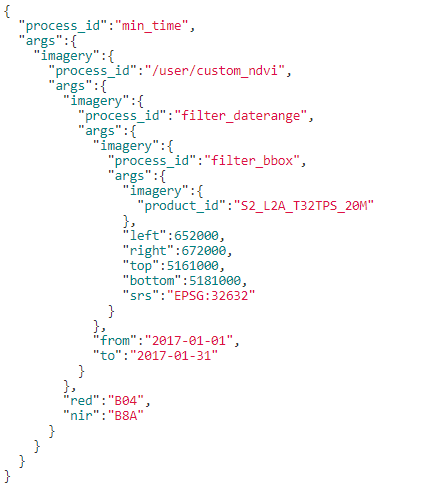
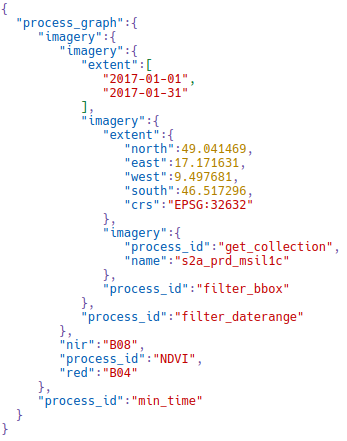
implementation chapter

diff --git a/latex/example.tex b/latex/example.tex
@@ -366,10 +366,26 @@ In Figure \ref{fig:vframework} there is an overview of the VFramework concept.
 	\label{fig:vframework} % \label has to be placed AFTER \caption (or \subcaption) to produce correct cross-references.
 \end{figure}
 
-\todo{bis hier fertig (fürs Erste)}
+
 \section{Earth Observation Science}\label{EOScience}
 
-Reproducibility is a well discussed topic of the computational geoscience. The high amount of earth observation data leads to complex research experiments and therefore high complexity in the papers.  According to \cite{Ostermann2017AdvancingSW} where the reproducibility and replicability of scientific papers in geoscience are tested by obtaining more than 400 papers. In \cite{Ostermann2017AdvancingSW} a reproduction is defined by an exact duplicate of an experiment, whereas a replication is defined as a resemblance of the original execution, but allowing variation e.g. different scales.Only half of the test group publications are replicable and none of them reproducible. There are publications to address this lack of reproducibility in the earth observation science. The sections below summarize some examples of earth observation communities that are working on the topic of reproducibility. 
+Reproducibility is a well discussed topic of the computational geoscience. The high amount of earth observation data leads to complex research experiments and therefore high complexity in the papers.  In \cite{Ostermann2017AdvancingSW} reproducibility and replicability of scientific papers in geoscience are tested by obtaining more than 400 papers. In \cite{Ostermann2017AdvancingSW} a reproduction is defined by an exact duplicate of an experiment, whereas a replication is defined as a resemblance of the original execution, but allowing variation e.g. different scales. Table \ref{Tab:geoprimad} describes the difference of reproduction and replicability in PRIMAD terms. Only half of the test group publications are replicable and none of them reproducible. There are publications to address this lack of reproducibility in the earth observation science. The sections below summarize some examples of earth observation communities that are working on the topic of reproducibility.   
+
+\begin{table}[]
+	\caption{PRIMAD description of reproduction and replication according to \cite{Ostermann2017AdvancingSW}}
+	\begin{tabular}{l|l|l}
+		 & \textbf{Reproduction} & \textbf{Replication}  \\ \hline
+		\textbf{P}latform & same & different \\ \hline 
+		\textbf{R}esearch Objectives & same & same \\ \hline  
+		\textbf{I}mplementation  & same & different  \\ \hline  
+		\textbf{M}ethods & same & different \\ \hline 
+		\textbf{A}ctors & different & different \\ \hline
+		\textbf{D}ata & same & different, but similiar \\ \hline
+	\end{tabular}
+	\label{Tab:geoprimad}
+\end{table}
+
+
 
 \subsection{Vadose Zone Journal (VZJ)}\label{VZJ}
 In order to face the issue of lacking reproducibility in geoscience the Vadose Zone Journal (VZJ) started a Reproducibility Research (RR) program in 2015 \cite{doi:10.2136/vzj2015.06.0088}. 
@@ -393,7 +409,7 @@ The geoscience paper of the future (GPF) is according to \cite{Gil2016TowardTG} 
 \end{figure}
 
 In Figure \ref{fig:gpf} the differences with a reproducible paper gets visualized. In addition to the characteristics of the reproducible paper the GPF focuses on publishing the data publicly with open licenses with citable persistent identifiers.
-The GPF consists of a set of 20 recommendations for geoscientists regarding data accessibility, software accessibility and provenance information. GPF authors may find reasons to not be able to follow the rules and therefore have to find workarounds and propose areas for future improvements. The strategy of the GPF community is to educate the scientist to make reproducible publications, by making training sessions for them \footnote{\footnote{http://scientificpaperofthefuture.org/gpf/events.html}}, rather then providing tools to make it easier for scientists to use it. In comparison to this thesis it is a different approach to achieve the same goal, in this thesis the strategy is to achieve reproducibility in geoscience through technology. 
+The GPF consists of a set of 20 recommendations for geoscientists regarding data accessibility, software accessibility and provenance information. GPF authors may find reasons to not be able to follow the rules and therefore have to find workarounds and propose areas for future improvements. The strategy of the GPF community is to educate the scientist to make reproducible publications, by making training sessions for them\footnote{http://scientificpaperofthefuture.org/gpf/events.html}, rather then providing tools to make it easier for scientists to use it. In comparison to this thesis it is a different approach to achieve the same goal, in this thesis the strategy is to achieve reproducibility in geoscience through technology. 
 
 \subsection{Climate Change Centre Austria (CCCA)}
 
@@ -540,7 +556,7 @@ The main part of the job execution definition is based on the description of wha
 	\label{fig:process_graph} % \label has to be placed AFTER \caption (or \subcaption) to produce correct cross-references.
 \end{figure}
 
-The back ends interpret the process graph from inside out. Figure \ref{fig:process_graph} displays the process graph of the running example of Section \ref{example}. It describes the calculation of the minimum NDVI image of the Sentinel 2 satellite over south tyrol in May 2017. The element in the center of the process graph defines the input data identifier in the "imagery" block, with the "product\_id". In this case the "s2a\_prd\_msil1c" is chosen  as input data identifier, because it is the identifier for Sentinel 2 at the EODC back end. After reading the input data id, the back end iterates one step up in the hierarchy of the process graph and calls the process "filter\_bbox" with the parameters "left", "right" and so on, which is responsible of filtering the image spatial (e.g. the area over south tyrol). After that the "filter\_daterange" process is used to only take imageries from May 2017. Every process beginning with "filter\_" is a filter operation that specifies the selection of the input data. The output data of the previous process is the input data of the next process. After the last filtering process, the NDVI gets called by "/user/custom\_ndvi" with the parameters "red" and "nir", which take the identifier of the bands of near infrared and red light, which is needed by the NDVI process (see Section \ref{example}). After that the minimum value is taken from all images using the "min\_time" process, which then results in a single image. In Figure \ref{fig:process_graph_diagram} the same process graph is visualized from the back end point of view, visualizing the order of how it gets executed. To transfer the process graph in Figure \ref{fig:process_graph} at a back end, it gets sent in the body of the POST /jobs endpoint request.
+The back ends interpret the process graph from inside out. Figure \ref{fig:process_graph} displays the process graph of the running example of Section \ref{example}. It describes the calculation of the minimum NDVI image of the Sentinel 2 satellite over south tyrol in May 2017. The element in the center of the process graph defines the input data identifier in the "imagery" block, with the "get\_collection" process id. In this case the "s2a\_prd\_msil1c" is chosen as input data identifier, because it is the identifier for Sentinel 2 at the EODC back end. After reading the input data id, the back end iterates one step up in the hierarchy of the process graph and calls the process "filter\_bbox" with the parameters "left", "right" and so on, which is responsible of filtering the image spatial (e.g. the area over south tyrol). After that the "filter\_daterange" process is used to only take imageries from May 2017. Every process beginning with "filter\_" is a filter operation that specifies the selection of the input data. The output data of the previous process is the input data of the next process. After the last filtering process, the NDVI gets called by "/user/custom\_ndvi" with the parameters "red" and "nir", which take the identifier of the bands of near infrared and red light, which is needed by the NDVI process (see Section \ref{example}). After that the minimum value is taken from all images using the "min\_time" process, which then results in a single image. In Figure \ref{fig:process_graph_diagram} the same process graph is visualized from the back end point of view, visualizing the order of how it gets executed. To transfer the process graph in Figure \ref{fig:process_graph} at a back end, it gets sent in the body of the POST /jobs endpoint request.
 
 \begin{figure}[h]
 	\centering
@@ -574,8 +590,8 @@ Even though the back ends implement the OpenEO core API standard, they are still
 
 \subsection{EODC Back End}\label{EODC Back End}
 
-The EODC back end is one of the contributing back end providers of the OpenEO project. It is in general a python implemented back end that uses virtualisation technologies for the job execution. The overlaying technology is OpenShift (using Kubernetes) \footnote{https://www.openshift.com/learn/what-is-openshift/}, which is capable of scaling docker containers and handles the execution of them. In the docker containers the python code for the processing gets executed. The docker description files and the python code is available on GitHub\footnote{https://github.com/Open-EO/openeo-openshift-driver/tree/release-0.0.2}. In this thesis the latest version of the EODC back end provided in GitHub with the version 0.0.2 is used. In this version every process of the OpenEO process graph is represented by an own docker container running the python code needed. The service layer for accessing the back end is accomplished by the python library Flask. EODC provides only data from Sentinel 2 and Sentinel 1 within the OpenEO project. The provided data are satellite images from the European Space Agency (ESA), which gets the raw data coming directly from the Sentinel satellites. \\
-The data management of EODC is file-based, so every image data is stored in a unique directory and filename combination. Meta-data is provided via PostgreSQL database including the PostGIS\footnote{https://postgis.net} plug-in. The provided query tool for EODC users is the Open Geospatial Consortium (OGC) standard interface Catalogue Service for the Web (CSW\footnote{http://cite.opengeospatial.org/pub/cite/files/edu/cat/text/main.html}). In Figure \ref{fig:eodceer} an overview of the EODC meta-database is displayed. The structure is retrieved from the github repository of the EODC back end\footnote{https://github.com/Open-EO/openeo-openshift-driver/tree/release-0.0.2}, where every database entity is defined. Every Process entity can have parameters described by the Parameter entity. The ProcessNode is representing one node in a process graph and is therefore related to exactly one ProcessGraph entity. Every Job has a related process graph, there may be jobs that use the same process graph, but in the current set up they are persisted both in the database.
+The EODC back end is one of the contributing back end providers of the OpenEO project. It is in general a python implemented back end that uses virtualisation technologies for the job execution. The overlaying technology is OpenShift (using Kubernetes) \footnote{https://www.openshift.com/learn/what-is-openshift/}, which is capable of scaling docker containers and handles the execution of them. In the docker containers the python code for the processing gets executed. The docker description files and the python code is available on GitHub. In this thesis the latest version of the EODC back end provided in GitHub with the version 0.0.2 is used. In this version every process of the OpenEO process graph is represented by an own docker container running the python code needed. The service layer for accessing the back end is accomplished by the python library Flask. EODC provides only data from Sentinel 2 and Sentinel 1 within the OpenEO project. The provided data are satellite images from the European Space Agency (ESA), which gets the raw data coming directly from the Sentinel satellites. \\
+The data management of EODC is file-based, so every image data is stored in a unique directory and filename combination. Meta-data is provided via PostgreSQL database including the PostGIS\footnote{https://postgis.net} plug-in. The provided query tool for EODC users is the Open Geospatial Consortium (OGC) standard interface Catalogue Service for the Web (CSW\footnote{http://cite.opengeospatial.org/pub/cite/files/edu/cat/text/main.html}). In Figure \ref{fig:eodceer} an overview of the EODC meta-database is displayed. The structure is retrieved from the github repository of the EODC back end\footnote{https://github.com/Open-EO/openeo-openshift-driver}, where every database entity is defined. Every Process entity can have parameters described by the Parameter entity. The ProcessNode is representing one node in a process graph and is therefore related to exactly one ProcessGraph entity. Every Job has a related process graph, there may be jobs that use the same process graph, but in the current set up they are persisted both in the database.
 
 \begin{figure}[h]
 	\centering
@@ -583,9 +599,6 @@ The data management of EODC is file-based, so every image data is stored in a un
 	\caption{Overview of the EODC meta-database structure.}
 	\label{fig:eodceer} % \label has to be placed AFTER \caption (or \subcaption) to produce correct cross-references.
 \end{figure}
-
-%Data management on the EODC back end is file system based. All earth observation data that can be retrieved and used on the back end is stored as a zip archive file on EODCs file system. EODC only provides Sentinel 2 and Sentinel 1 data, directly retrieved from the ESA, for the OpenEO project. Additionally to the file system directory a PostgreSQL database with the PostGIS extension is used to save the meta data of the files. To query the data sets a OGC standard named CSW is used as an interface. CSW uses XML based queries to e.g. filter the data. The data from ESA gets rarely updated, but if it gets updated a new filename gets created. EODC automatically syncs the data from ESA and gets also the new versions of the data records. So the version of the data is described by the filename and file path. In the PostgreSQL database there are the timestamps of changes on the files stored. Queries are not stored by the EODC back end and there are no data identifiers on query results generated. For the user executing jobs at EODC via the OpenEO back end driver there is no possibility to identify the input data.            
-%\todo{Maybe move to eodc section at the methods.}
 
 \section{Summary}
 
@@ -694,7 +707,7 @@ The version of the back end provenance during the job execution. Since for every
 The output data of the processing has to be captured as well to be able to compare job execution outcomes. In earth observation tasks the results can be rather big, that is why a simple generated hash value of the output result is enough. The output data does not have to be identifiable within the scope of this thesis, but just checkable of identity with other executions. Therefore, a generated hash value of the output data is sufficient. The aim of the output data capturing is not to add the possibility to find differences between results, but to be able to see that the results are different. Even though the input data of typical earth observation experiments are big, the output of such experiments are images of various sizes.   
 
 \textbf{J6: Result Hash} \\
-The output result of the job need to be verifiable and therefore need to be persisted. An easy way to achieve this is to take the hash value over the sorted output files.
+The output result of the job need to be verifiable and therefore need to be persisted. An easy way to achieve this is to take the hash value over the output files sorted by the alphabetical ascending filenames.
  
 \section{Context Model}\label{Design:Context Model}
 
@@ -706,7 +719,7 @@ Second the job execution context model that includes all information that is ded
 %\textbf{J2: Process Code Identifier}
 %The executed  code for the process has to be identifiable, therefore there has to be an id of the code. The OpenEO project is an OpenSource project and the back end provider have the used code at the Github repository, so the link to the github repository with the currently checked out commit can be used as the identifier. 
 
-\section{User Interface}\label{Design:User Interface}
+\section{User Services}\label{Design:User Interface}
 
 In this section the information for the users and how it is provided gets described. The capturing described in the previous sections consists of information about the back ends that shall not be completely passed to the users in detail. For example, it is maybe a security risk to provide information on specific programming language packages. On the other hand the users need to be able to see the differences of job executions and get environment information about the back ends. Therefore, there has to be a filter on which data can not be shown to the users. Every captured information is not necessarily interesting for the users. Data that is not secure to the user has to be defined by the different back ends themselves. The earth observation community has a very diverse set of back ends and every one has a unique company security guideline.\\ 
 Provenance information need be provided to the user. Therefore, there have to be additions to the core API specification. Additional endpoints for the users to get information about the back end have to be created for the core API, back end and client. The following recommendations summarize the set of needed additions, they are structured with a "U" in the beginning to add readability through the thesis. Other than the "J" and the "B" data elements, the following points are implementation recommendations for back end provider to make the use of the context model accessible for the users.
@@ -715,7 +728,7 @@ Provenance information need be provided to the user. Therefore, there have to be
 There has to be an endpoint for users to retrieve back end specific information especially the current version. The aim of it is to present the users with information about the current state of the back end and to help users to decide, which back end they want to use. 
 
 \textbf{U2: Detailed Job Information} \\
-The back end has to provide an endpoint to retrieve information about an already executed job. The provenance of the job has to be presented in there. At least the resolvable persisted identifier of the input data, the back end version and the result set hash has to be added to the view. In addition to this the whole meta-data of the context model can be mad accessible. To make it more transparent for users the resolvable identifier URL of the input data and the GitHub information can be provided.   
+The back end has to provide an endpoint to retrieve information about an already executed job. The provenance of the job has to be presented in there. At least the resolvable persisted identifier of the input data, the back end version and the result set hash has to be added to the view. In addition to this the whole meta-data of the context model can be made accessible. To make it more transparent for users the resolvable identifier URL of the input data and the GitHub information can be provided.   
 
 \textbf{U3: Comparing Two Jobs} \\
 The API has to add an end point for providing a comparison of two different jobs.  Every item of both of the context models of both jobs have to be compared if they are equal or not. Therefore, the response of the comparison request consists of the differences in the context model between two jobs.
@@ -727,7 +740,7 @@ After the job is executed the input data has a relating input data PID. The PID 
  The back end has to provide an endpoint to the user to re-use a specific input data in another job. Therefore, the API allows to include the use of an input data PID in the process graph, so that users can include cited data directly in a new created job description.  
 
 \section{User Defined Functions}\label{Design:User Defined Functions}
-This section describes a possible capturing method of User Defined Functions (UDF). UDFs are customized code written by the user that gets executed in a virtualization environment at the back end provider. In theory the user defines a docker base image and the code that should run in it. This is a black box for the back end provider, since they can not now what processes run in the docker container. Therefore, the capturing concept needs to be different then the common way of executing jobs at the back end. The code and the docker base image has to be persisted by the back end provider. In addition the timestamp of the execution, to be able to able to identify the back end version at the execution. This is a rather new concept in earth observation science and not implemented in the EODC back end, hence the implementation of the capturing is not in this thesis.
+This section describes a possible capturing method of User Defined Functions (UDF). UDFs are customized code written by the user that gets executed in a virtualization environment at the back end provider. In theory the user defines a docker base image and the code that should run in it. This is a black box for the back end provider, since they can not now what processes run in the docker container. Therefore, the capturing concept needs to be different then the common way of executing jobs at the back end. The code and the docker base image has to be persisted by the back end provider. In addition the timestamp of the execution, to be able to identify the back end version at the execution. This is a rather new concept in earth observation science and not implemented in the EODC back end, hence the implementation of the capturing is not part of this thesis.
 
 
 \section{Summary}
@@ -791,7 +804,8 @@ The Query Table stores the data related to the query instance, additional result
 	\includegraphics[width=\textwidth]{dataid_example_processgraph}
 	\caption{Example Input process graph of the Query Handler component.}
 	\label{fig:processgraph_example} % \label has to be placed AFTER \caption (or \subcaption) to produce correct cross-references.
-\end{figure} %\todo{adapt original Query}
+\end{figure} 
+\todo{adapt original Query}
 
 \begin{table}[]
 	\caption{Structure of the Query Table in the EODC meta database.}
@@ -826,10 +840,10 @@ The following list describes how the elements of the query data set record are c
 	Newline and space characters are removed from the unique query string. The unique query hash is the output of the SHA-256 hash function (using the python module "hashlib") with the unique query as input.  \\
 	\textit{Example: "AE7EF888CDEDF8A9A371\dots"} 
 	\item \textbf{Result Hash} \\
-	The result hash is the output of the SHA-256 hash function (using the python module "hashlib") with the result file list as input. Before the list is applied to the hash function it is transformed to a string and then gets the newline and white space characters removed from it. \\
+	The result hash is the output of the SHA-256 hash function (using the python module "hashlib") with the result file list as input. Before the list is applied to the hash function it is transformed to a string and the newline and white space characters are removed. \\
 	\textit{Example: "565D229FCE4772869343\dots"} 
 	\item \textbf{Execution Time-stamp} \\
-	The execution time stamp is the input parameter of the Query Handler and is transformed to the data type needed by the data base. The time-stamp is taken by the query execution handler and is part of the query execution result. To forward it to the Query Handler it had to be read from the result object. \\
+	The execution time stamp is the input parameter of the Query Handler and is transformed to the data type needed by the data base. The time-stamp is taken by the query execution handler and is part of the query execution result. To forward it to the Query Handler it has to be read from the result object. \\
 	\textit{Example: "2018-10-17 18:03:20,609"}  
 	\item \textbf{Additional Meta-data} \\
 	The additional meta-data column of the Query table can be used by the EODC back end to store additional information about the query execution. In the implementation of this thesis, only the number of output files are persisted in the database. The column is defined as a JSON object and can be extended with additional meta-data easily. \\
@@ -860,6 +874,7 @@ Since EODC takes the code for the services directly from GitHub, the Git commit 
 
 \textbf{B4: Publication Time-stamp} \\
 The publication time-stamp of the EODC back end is defined by the time-stamp when the Git commit happened. It is persisted by GitHub and can be retrieved via the Git CLI. 
+\todo{Maybe add the code example}
 
 \section{Job dependent provenance}\label{Implementation:Job dependent provenance}
 The EODC back end of the release version "0.0.2" transforms the process graph into separate docker containers. For every process in the process graph there is a docker container running the related python code. The input of the current process is the output of the previous process. The first process docker container has the input data defined in the process graph as input value, which is the result of the query execution. Every process saves the results in a temporary folder dedicated to the specific process execution. Every process has its own temporary output directory until the whole process chain is finished. After that the back end deletes the temporary folders and only the end result is persisted in the job directory.
@@ -872,16 +887,16 @@ Each executed job creates a context model. If the job gets re-executed, the cont
 The context model is stored as a JSON object in the job execution meta-database. After the job is carried out in the EODC back end the results are saved in a folder named after the unique job identifier and the meta data information is stored in a PostGreSQL database (see Section \ref{EODC Back End}). Jobs are saved in the Job table of the database and in this solution the context model is an additional column of it. The context model JSON object gets created by the implementations described below. \\
 Table \ref{Tab:contextmodel} provides the mapping between the context model elements from Section \ref{Design} and the keys of the JSON context model object of the prototype. The elements have a one to one mapping of the context model and the JSON key except for the timestamps of the execution. The execution time stamps are part of the Job table in the EODC meta-database. \\
 Figure \ref{fig:job_context_model} shows an example context model. It consists of all elements described for the context model in the Design section. Information on the back end environment during the execution of the job is persisted in the context model. In the context model the back end version and the execution time-stamp is persisted and can be used to identify the back end provenance of the execution time. The code environment is a list of all python dependencies with their versions installed during the execution of the jobs. In addition the python interpreter version is added to the JSON object. How the data is captured in detail is described in the sections below.    
- 
-%\todo{Make Glossary ?}
-%\todo{Add listing captions ?}
+\todo{bis hier fertig (fürs Erste)}
+\todo{Make Glossary !}
+\todo{Add listing captions !}
  
 \begin{table}[]
 	\caption{Relation of context model elements and EODC JSON context model.}
 	\begin{tabular}{l|l}
 		\textbf{Context Model Definition} & \textbf{JSON Key} \\ \hline
-		\textbf{J1: Input Data Persisted Identifier} & input\_data \\ \hline
-		\textbf{J2: Back end provenance / Code Identifier} & backend\_env \\ \hline
+		\textbf{J1: Input Data Persistent Identifier} & input\_data \\ \hline
+		\textbf{J2: Back End provenance / Code Identifier} & backend\_env \\ \hline
 		\textbf{J3: Programming Language} & interpreter \\ \hline
 		\textbf{J4: Installed packages of the programming language} & code\_env \\ \hline
 		\textbf{J5: Start and End time of process execution} & start\_time, end\_time \\ \hline
@@ -921,7 +936,7 @@ Figure \ref{fig:impljobcapture} visualizes the additional python module \textit{
 	\item \textbf{Job Capturing} \\
 	The \textit{Job Capturing} module parses the logging file to extract the information needed for the context model (J1, J3, J4 and J5) and passes the formatted information to the \textit{Context Model Creator}. The \textit{Context Model Creator} needs the \textit{Result Handler} (J6) and \textit{BackEndMonit} (J2) for the remaining parts of the context model. After receiving all necessary information the JSON context model is created and stored to the Job table in the EODC meta-database.    
 \end{enumerate}
-
+\todo{there is a BackEndMonit ....}
 The following sections describe the capturing of each data element of the job dependent context model in more detail.
 
 \textbf{J1:  Source Input Data Identifier} \\
@@ -978,7 +993,7 @@ The core API does not define the comparison of two jobs, hence there does not ex
 	\caption{JSON Example of a job comparison result.}
 	\label{fig:job_comparison} % \label has to be placed AFTER \caption (or \subcaption) to produce correct cross-references.
 \end{figure}
-%\todo{show process graph differences in the program and edit the image here}
+\todo{show process graph differences in the program and edit the image here}
 
 \textbf{U4: Data Identifier Landing Page} \\
 Depending on the back end, the input data may be restricted to the OpenEO interface. Therefore, the resolver of the input data PID is set within the core-API specification. In the coreAPI release version 0.0.2, there exists an endpoint to retrieve detailed information about a data set. The "GET /data/<dataset-id>" endpoint is extended, by accepting query PIDs. If the user calls the endpoint with a data PID, the result are the details of the underlying dataset and in addition the result of the query execution and the original query parameters. If the result file list differs from the original execution, there will be a warning message added to the response. 
